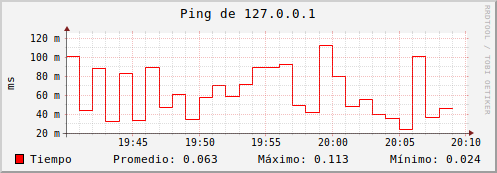
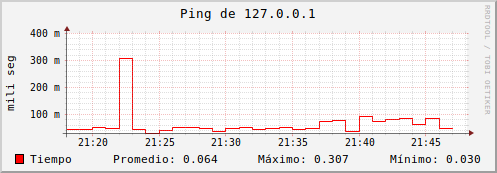
Cosas magicas

diff --git a/ping-poller/graficar.py b/ping-poller/graficar.py
@@ -1,7 +1,7 @@
 from rrdtool import graph as rrd_graph
 
 DIRECCIONES = ["github.com", "127.0.0.1", "148.204.58.221"]
-RUTA = "/home/tona/Documents/sexto/redes3/ping-logger"
+RUTA = "/home/tona/Documents/sexto/redes3/ping-poller"
 
 
 def graficar():
@@ -10,7 +10,7 @@ def graficar():
         titulo = "Ping de {}".format(direccion)
         nombre_img = "{}/{}-actual.png".format(RUTA, direccion)
         rrd_graph(nombre_img,
-                  "--vertical-label", "ms",
+                  "--vertical-label", "mili seg",
                   "--start", "-30m",
                   "--title", titulo,
                   "DEF:mitiempo={}:tiempo:AVERAGE".format(archivo_rrd),
@@ -19,18 +19,16 @@ def graficar():
                   "GPRINT:mitiempo:MAX:Máximo\: %.3lf",
                   "GPRINT:mitiempo:MIN:Mínimo\: %.3lf")
 
-        for sched in ['dia', 'semana', 'mes']:
-            if sched == 'dia':
+        for sched in ['diario', 'semanal']:
+            if sched == 'diario':
                 period = 'd'
-            elif sched == 'semana':
+            elif sched == 'semanal':
                 period = 'w'
-            else:
-                period = 'm'
             # print("{} - {}".format(direccion, sched))
             nombre_img = "{}/{}-{}.png".format(RUTA, direccion, sched)
-            titulo = "ping del ultimo {} de {}".format(sched, direccion)
+            titulo = "Registro ping {} de {}".format(sched, direccion)
             rrd_graph(nombre_img, "--start", "-1{}".format(period),
-                      "--vertical-label=Tiempo",
+                      "--vertical-label=mili seg",
                       "--title", titulo,
                       "DEF:mi_tiempo={}:tiempo:AVERAGE".format(archivo_rrd),
                       "LINE1:mi_tiempo#0000FF:Tiempo",

diff --git a/ping-poller/ping-poller.py b/ping-poller/ping-poller.py
@@ -7,7 +7,7 @@ import re
 import os.path
 
 DIRECCIONES = ["github.com", "127.0.0.1", "148.204.58.221"]
-RUTA = "/home/tona/Documents/sexto/redes3/ping-logger"
+RUTA = "/home/tona/Documents/sexto/redes3/ping-poller"
 
 
 def crear_base():
@@ -15,7 +15,7 @@ def crear_base():
     # 0.5 = porcentaje de PDP que pueden ser desconocidos
     # 5  = PDP que se utilizan, cada actualizacion es un PDP
     # 48 = Cuantos PDP se guardan
-    # 1 min * 5 PDP = 5 min intervalo en el que se guarda un registro de los 48
+    # 1 min (60 s) * 5 PDP = 5 min intervalo en el que se guarda un registro de los 48
     # Toma (5 min * 48 registros) = 240 min =  4 hrs llenar los 48 registros
     # Por lo que almacenamos 4 horas de info
     for direccion in DIRECCIONES:
